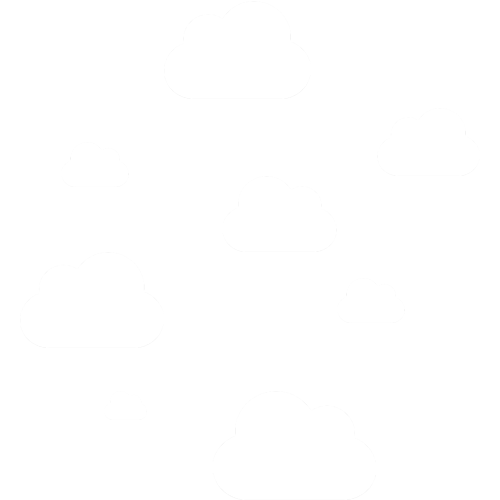
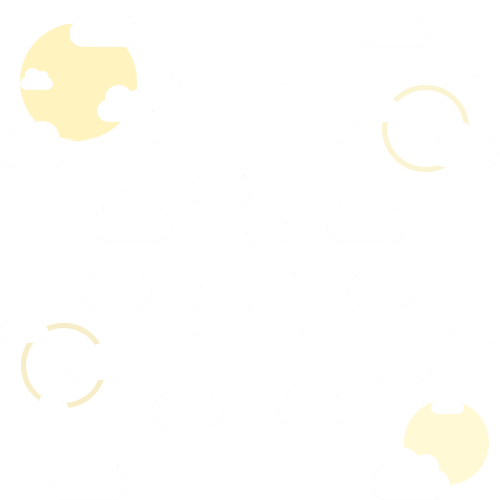
clouds behind image good enough for now

diff --git a/website/templates/not_signed_in/landing/index.html b/website/templates/not_signed_in/landing/index.html
@@ -10,13 +10,22 @@
 <!-- ------------------------------------- content start ------------------------------------- -->
 {% block contentBodyExceptNavbarAndFooter %}
 <div class="container-fluid bg-custom-yellow-1 custom-pt-1">
-  <img src="/static/images/landing/clouds_group.png" alt="background cloud" class="custom-img-position-1 custom-img-size-1 custom-img-index-1 custom-img-opacity-1">
+
+  <div class="container-fluid custom-img-position-1 text-center">
+    <img src="/static/images/landing/clouds_group.png" alt="background cloud" class="custom-img-size-1 custom-img-index-1 custom-img-opacity-1">  
+    <img src="/static/images/landing/clouds_group.png" alt="background cloud" class="custom-img-size-1 custom-img-index-1 custom-img-opacity-1">  
+  </div>
+  
   <img src="/static/images/cards/changefunders_card1.png" class="img-fluid img-thumbnail rounded-circle mx-auto d-block shadow-lg custom-max-width-2 custom-img-index-2 custom-img-position-2" alt="donator proof">
-  <img src="/static/images/landing/clouds_group_backwards.png" alt="background cloud" class="custom-img-position-3 custom-img-size-1 custom-img-index-1 custom-img-opacity-1">
+  
+  
   <div class="container custom-mt-1 custom-max-width-1 text-center mx-auto">
-    <h1 >Fund the change you want to see in the world first. Then complain.</h1>
+    <h1 >Fund the change you want to see in the world first &#127758;, then complain.</h1>
     <p>There is all talk, then there is real talk.</p>
   </div>
+</div>
+<div class="container">
+  <p>The footer should be a curved intro and the footer = Resources list of a's to click</p>
 </div>
 {% endblock %}
 <!-- ------------------------------------- content end ------------------------------------- -->

diff --git a/website/static/css/aaa_base/index.css b/website/static/css/aaa_base/index.css
@@ -45,9 +45,9 @@
 }
 .custom-img-position-1 {
   position: absolute;
-  top: 70px;
-  left: 5%;
-  max-width: 50%;
+  top: 360px;
+  left: 50%; 
+  transform: translate(-50%, -50%);
 }
 .custom-img-position-2 {
   position: relative;
@@ -62,10 +62,6 @@
   position: absolute;
   max-width: 90%;
   z-index: 1;
-}
-.custom-img-size-1 {
-  height: auto;
-  width: auto;
 }
 /* ------------------------------------- images end ------------------------------------- */
 /* ------------------------------------- margins start ------------------------------------- */
@@ -101,6 +97,18 @@
   border-radius: 25px;
 }
 /* ------------------------------------- rounding end ------------------------------------- */
+/* ------------------------------------- size start ------------------------------------- */
+.custom-img-size-1 {
+  width: 600px;
+  max-width: 100%;
+}
+/* ------------------------------------- size end ------------------------------------- */
+/* ------------------------------------- text start ------------------------------------- */
+.custom-text-center-1 {
+  text-align: center;
+  align-items: center;
+}
+/* ------------------------------------- text end ------------------------------------- */
 /* ------------------------------------- width start ------------------------------------- */
 .custom-max-width-1 {
   max-width: 800px;

diff --git a/website/templates/aaa_base/base.html b/website/templates/aaa_base/base.html
@@ -19,6 +19,7 @@
     <!-- ------------------------------------- bootstrap css end ------------------------------------- -->
     <!-- ------------------------------------- css start ------------------------------------- -->
     <link rel="stylesheet" type="text/css" href="/static/css/aaa_base/index.css">
+    <link rel="stylesheet" type="text/css" href="/static/css/aaa_base/mobile_index.css">
     <!-- ------------------------------------- css end ------------------------------------- -->
   </head>
   <body>

diff --git a/website/static/css/aaa_base/mobile_index.css b/website/static/css/aaa_base/mobile_index.css
@@ -1,0 +1,7 @@
+@media (max-width: 1200px) {
+  /* ------------------------------------- images start ------------------------------------- */
+  .custom-img-position-1 {
+    top: 150px;
+  }
+  /* ------------------------------------- images end ------------------------------------- */
+}
